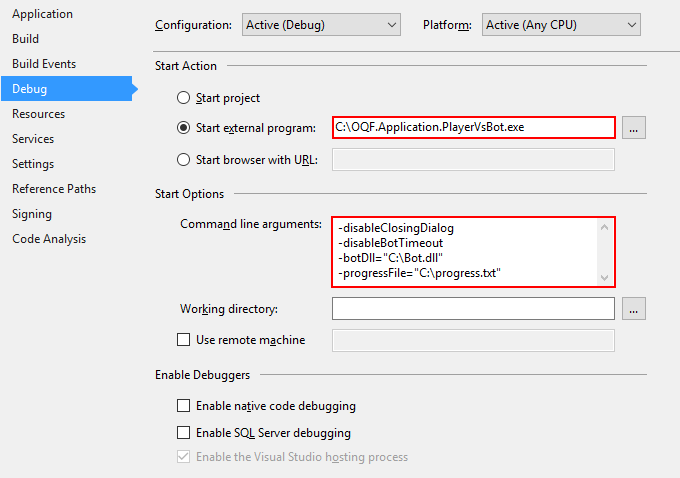
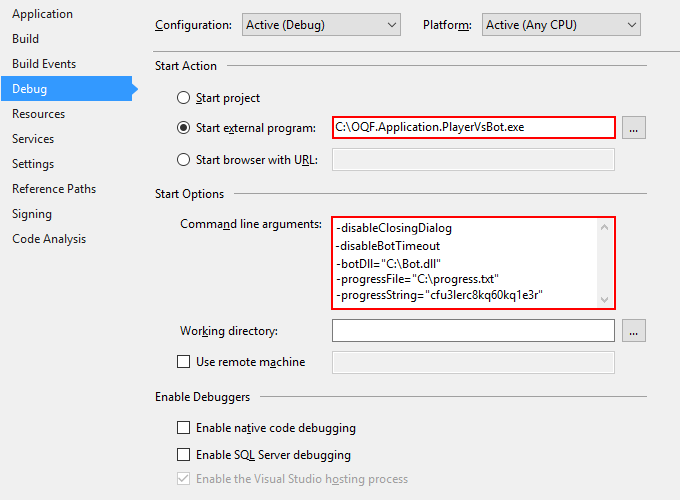
updated how to write bot page
added new command-line-parameter 'progressString'

diff --git a/OpenQuoridorFramework/OQF.Resources/LanguageDictionaries/Captions.Designer.cs b/OpenQuoridorFramework/OQF.Resources/LanguageDictionaries/Captions.Designer.cs
@@ -421,7 +421,7 @@ namespace OQF.Resources.LanguageDictionaries {
         }
         
         /// <summary>
-        ///   Looks up a localized string similar to You can simplify your debugging-process by modifying the properties of your bot-project in a way that the test-application PlayerVsBot is started automaticly with the bot loaded every time you start debugging. To do so (an example is shown in the picture above) you have to adjust the StartAction to launch the PlayerVsBot-application. In addition to that you have to add the result of the build-process (your bot-dll) as command-line-parameter for the test-application. Don&apos;t forget the quotation marks! There a [rest of string was truncated]&quot;;.
+        ///   Looks up a localized string similar to You can simplify your debugging-process by modifying the properties of your bot-project in a way that the test-application PlayerVsBot is started automaticly with the bot loaded every time you start debugging. To do so (an example is shown in the picture above) you have to adjust the StartAction to launch the PlayerVsBot-application. In addition to that you have to add the result of the build-process (your bot-dll) as command-line-parameter for the test-application. Don&apos;t forget the quotation marks if there [rest of string was truncated]&quot;;.
         /// </summary>
         public static string HTWAB_HintParagraphText {
             get {
